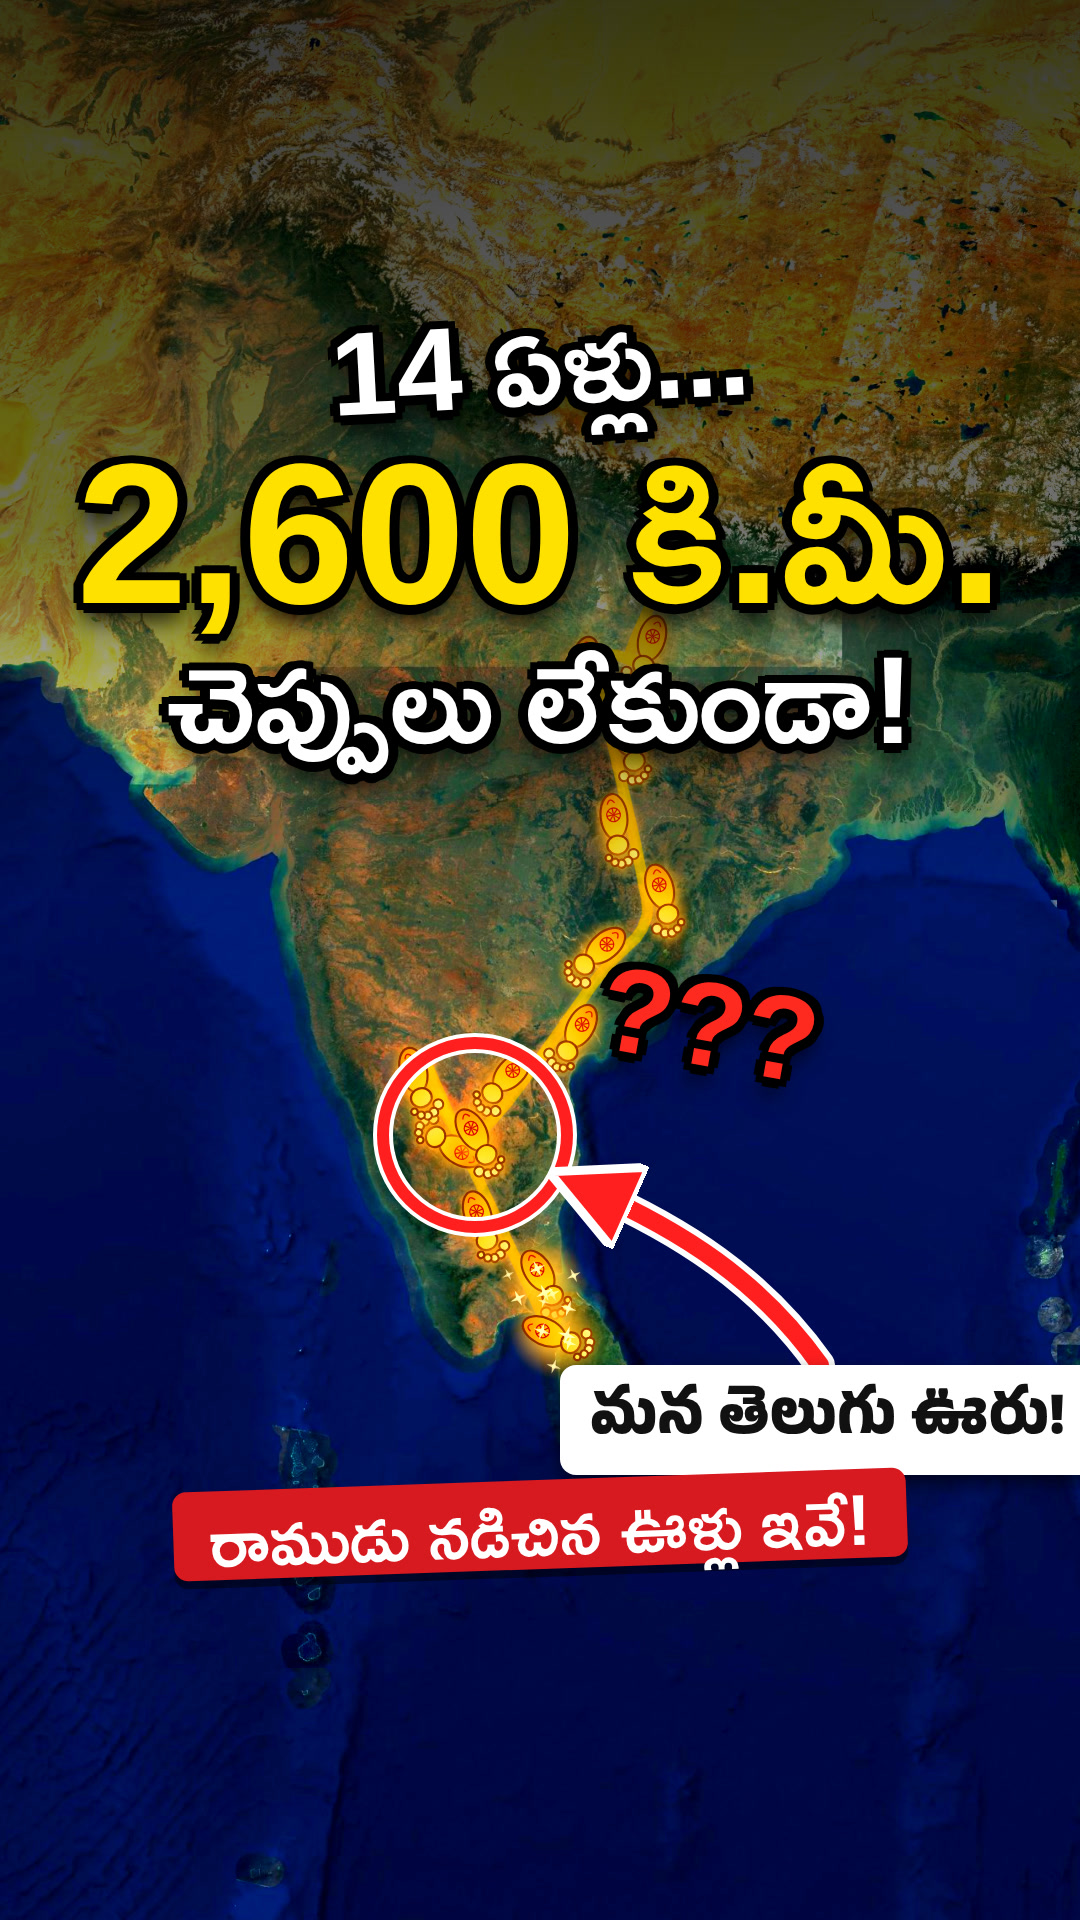
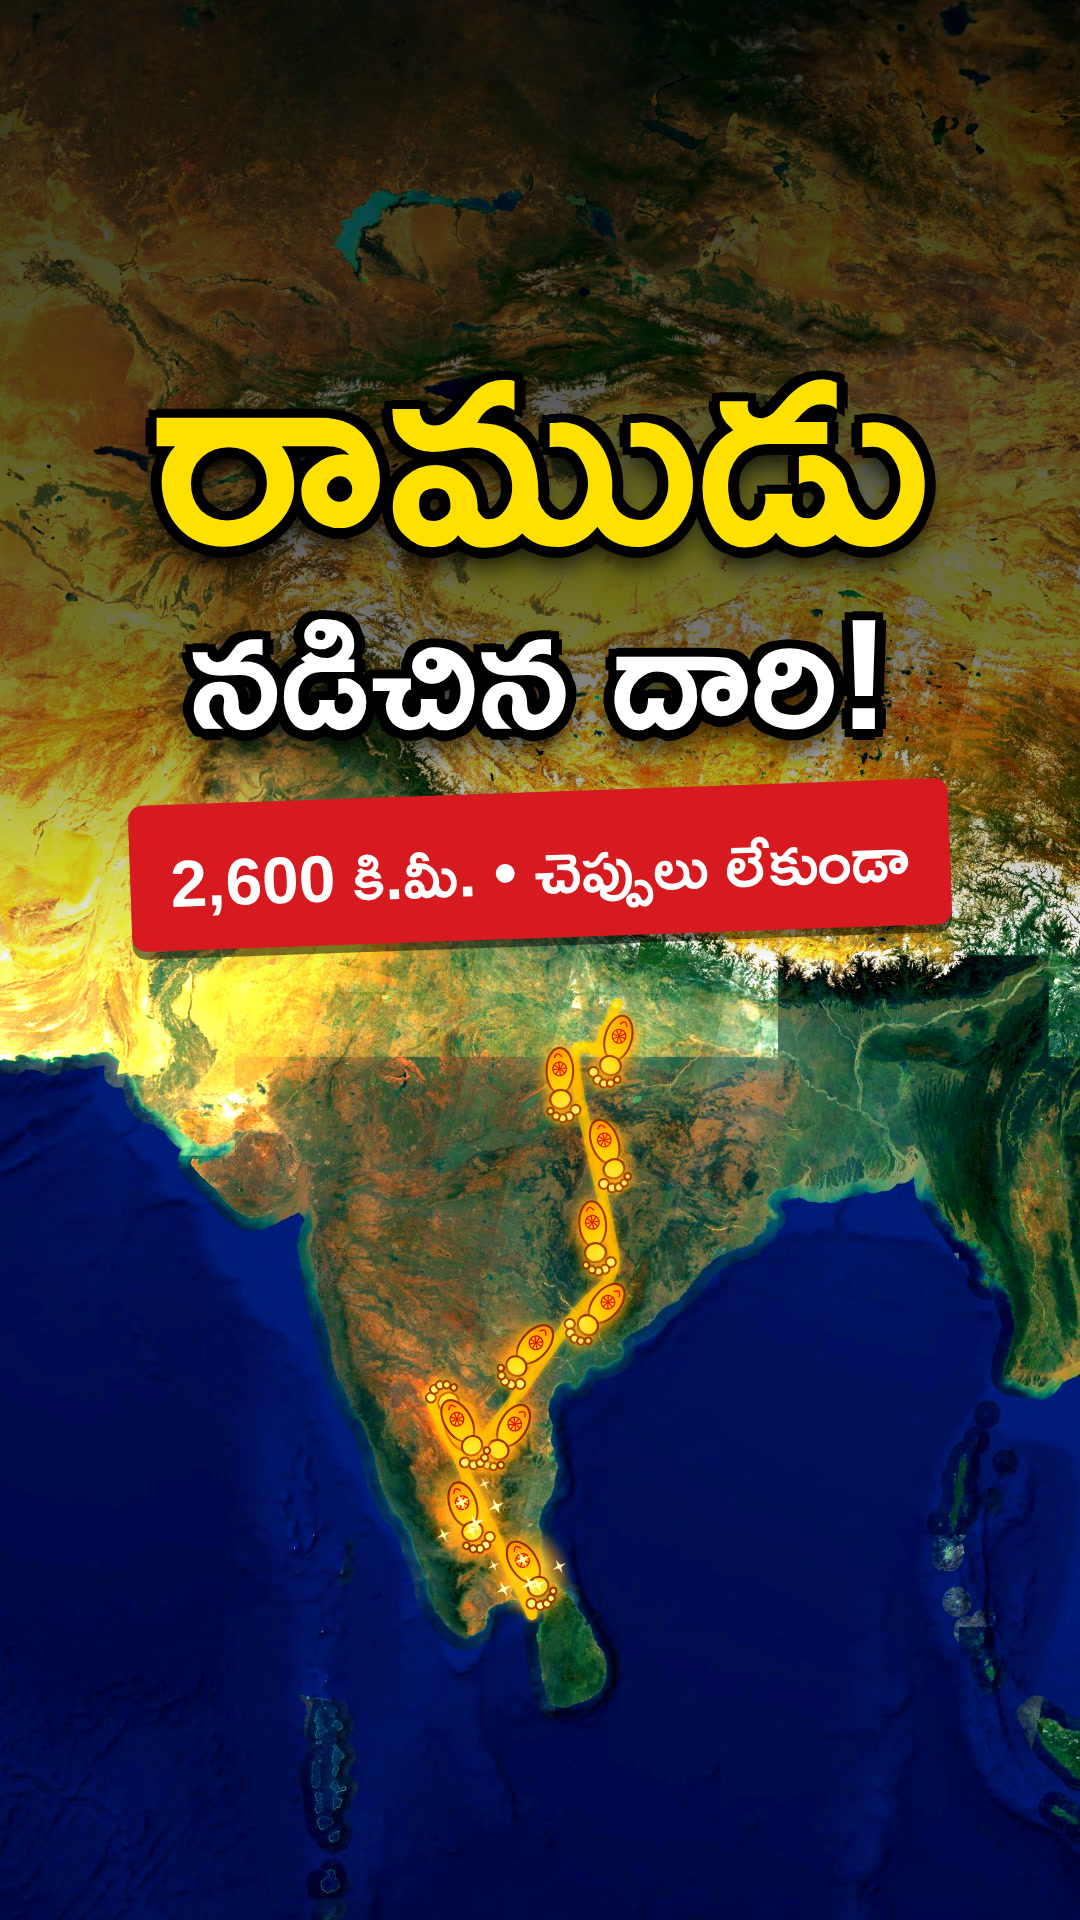
Rama reel: clean thumbnail focused on రాముడు నడిచిన దారి
Claude-Session: https://claude.ai/code/session_017x8KaNM3focoJEkh1kSqmn

diff --git a/vishayam-entante-shorts/source/rama_route/thumb_clean.html b/vishayam-entante-shorts/source/rama_route/thumb_clean.html
@@ -1,0 +1,32 @@
+<!doctype html><html><head><meta charset="utf-8">
+<link href="https://fonts.googleapis.com/css2?family=Ramabhadra&family=Anek+Telugu:wght@800&display=swap" rel="stylesheet">
+<style>
+*{margin:0;padding:0;box-sizing:border-box}body{background:#222}
+.t{position:relative;overflow:hidden;font-family:'Ramabhadra',sans-serif}
+.bg{position:absolute;inset:0;background-size:cover;filter:saturate(1.35) contrast(1.12) brightness(1.05)}
+.sh{position:absolute;left:0;right:0;top:0}
+.o{line-height:1.0;text-shadow:8px 8px 0 #000,-8px 8px 0 #000,8px -8px 0 #000,-8px -8px 0 #000,0 11px 0 #000,0 -9px 0 #000,11px 0 0 #000,-11px 0 0 #000,0 18px 26px rgba(0,0,0,.9)}
+.y{color:#ffe100}.w{color:#fff}
+.strip{display:inline-block;background:#d71920;color:#fff;border-radius:14px;box-shadow:0 8px 0 rgba(0,0,0,.5);transform:rotate(-2deg);white-space:nowrap}
+#v{width:1080px;height:1920px}#v .bg{background-image:url(tb_v.png)}
+#v .sh{height:980px;background:linear-gradient(rgba(0,0,0,.8),rgba(0,0,0,.55) 65%,rgba(0,0,0,0))}
+#v .txt{position:absolute;top:300px;left:0;right:0;text-align:center}
+#h{width:1280px;height:720px}#h .bg{background-image:url(tb_h.png)}
+#h .sh{bottom:0;right:auto;width:760px;background:linear-gradient(90deg,rgba(0,0,0,.82),rgba(0,0,0,.6) 65%,rgba(0,0,0,0))}
+#h .txt{position:absolute;top:95px;left:0;width:720px;text-align:center}
+</style></head><body>
+<div id="v" class="t"><div class="bg"></div><div class="sh"></div>
+ <div class="txt">
+  <div class="o y" style="font-size:280px">రాముడు</div>
+  <div class="o w" style="font-size:158px;margin-top:10px">నడిచిన దారి!</div>
+  <div style="margin-top:44px"><span class="strip" style="font-size:66px;padding:14px 40px 6px">2,600 కి.మీ. • చెప్పులు లేకుండా</span></div>
+ </div>
+</div><br>
+<div id="h" class="t"><div class="bg"></div><div class="sh"></div>
+ <div class="txt">
+  <div class="o y" style="font-size:200px">రాముడు</div>
+  <div class="o w" style="font-size:112px;margin-top:6px">నడిచిన దారి!</div>
+  <div style="margin-top:30px"><span class="strip" style="font-size:44px;padding:10px 28px 4px">2,600 కి.మీ. • చెప్పులు లేకుండా</span></div>
+ </div>
+</div>
+</body></html>

diff --git a/vishayam-entante-shorts/source/rama_route/thumb_bg.js b/vishayam-entante-shorts/source/rama_route/thumb_bg.js
@@ -2,7 +2,7 @@ const { chromium } = require('playwright'); const path=require('path'); const fs
 const cfg=JSON.parse(fs.readFileSync('rama_map5.json','utf8'));
 cfg.pins=[];cfg.feet.e=999;cfg.routeOpacity=[[0,0.5]];
 (async()=>{const b=await chromium.launch({args:['--ignore-gpu-blocklist']});
-for(const [w,h,name,cz] of [[1080,1920,'tb_v',[79.3,18.2,4.75]],[1280,720,'tb_h',[79.0,17.5,4.35]]]){
+for(const [w,h,name,cz] of [[1080,1920,'tb_v',[79.8,28.0,4.5]],[1280,720,'tb_h',[70.6,18.0,4.6]]]){
  const c=JSON.parse(JSON.stringify(cfg)); if(cz){c.keys[c.keys.length-1].c=[cz[0],cz[1]];c.keys[c.keys.length-1].z=cz[2];c.keys[c.keys.length-1].p=0;c.keys[c.keys.length-2]=c.keys[c.keys.length-1]}
  const p=await b.newPage({viewport:{width:w,height:h}});await p.addInitScript(x=>{window.CFG=x},c);
  await p.goto('file://'+path.join(__dirname,'engine_rama.html'));await p.waitForFunction(()=>window.LOADED===true,{timeout:120000});
